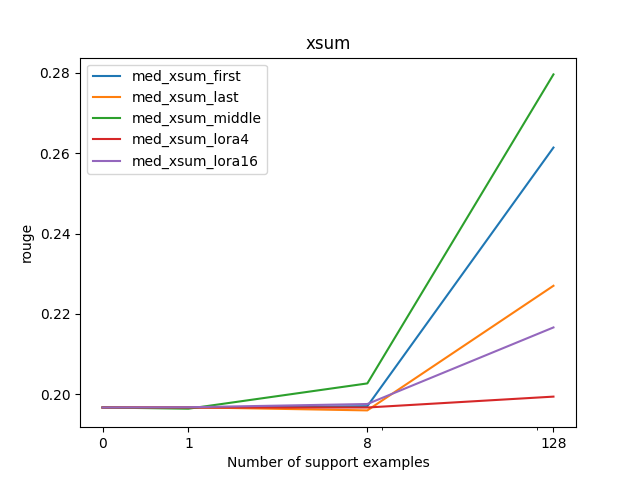
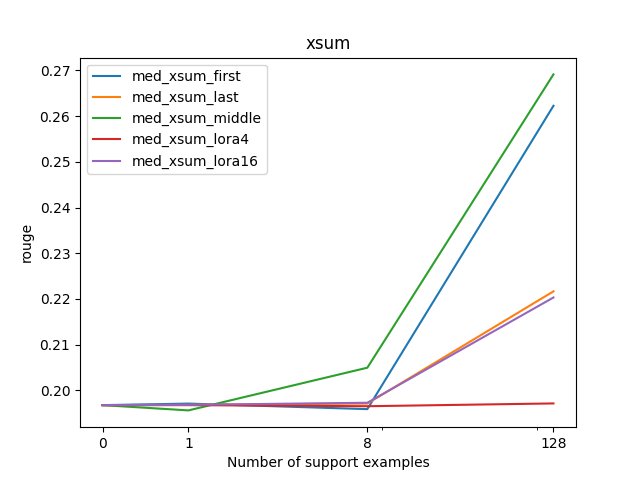
fix tokenize_gpt2_batch label generation.

diff --git a/hw3-2022/src/ft.py b/hw3-2022/src/ft.py
@@ -271,10 +271,10 @@ def tokenize_gpt2_batch(tokenizer, x, y):
     input_ids = tokenized_sequences['input_ids']
 
     tokenized_sequences['labels'] = torch.full_like(input_ids, fill_value=-100)
-    for i, y_ids in enumerate(tokenizer(y)['input_ids']):
-        tokenized_sequences['labels'][i, -len(y_ids):] = torch.tensor(y_ids)
+    for i, (x_ids, y_ids) in enumerate(zip(tokenizer(x)['input_ids'], tokenizer(y)['input_ids'])):
+        tokenized_sequences['labels'][i, len(x_ids):len(x_ids)+len(y_ids)] = torch.tensor(y_ids)
 
-    return tokenized_sequences
+    return tokenized_sequences.to(DEVICE)
 
 
 def add_prefixes(x: List[str], y: List[str], dataset: str) -> Tuple[List[str], List[str]]:

diff --git a/hw3-2022/src/icl.py b/hw3-2022/src/icl.py
@@ -130,7 +130,7 @@ def do_sample(model, input_ids, stop_tokens, max_tokens):
     """
     # YOUR CODE HERE
     sampled_tokens = []
-    input_ids = input_ids.input_ids
+    input_ids = input_ids.input_ids if hasattr(input_ids,"input_ids") else input_ids
     for i in range(max_tokens):
         with torch.inference_mode():
             outputs = model(input_ids=input_ids)
